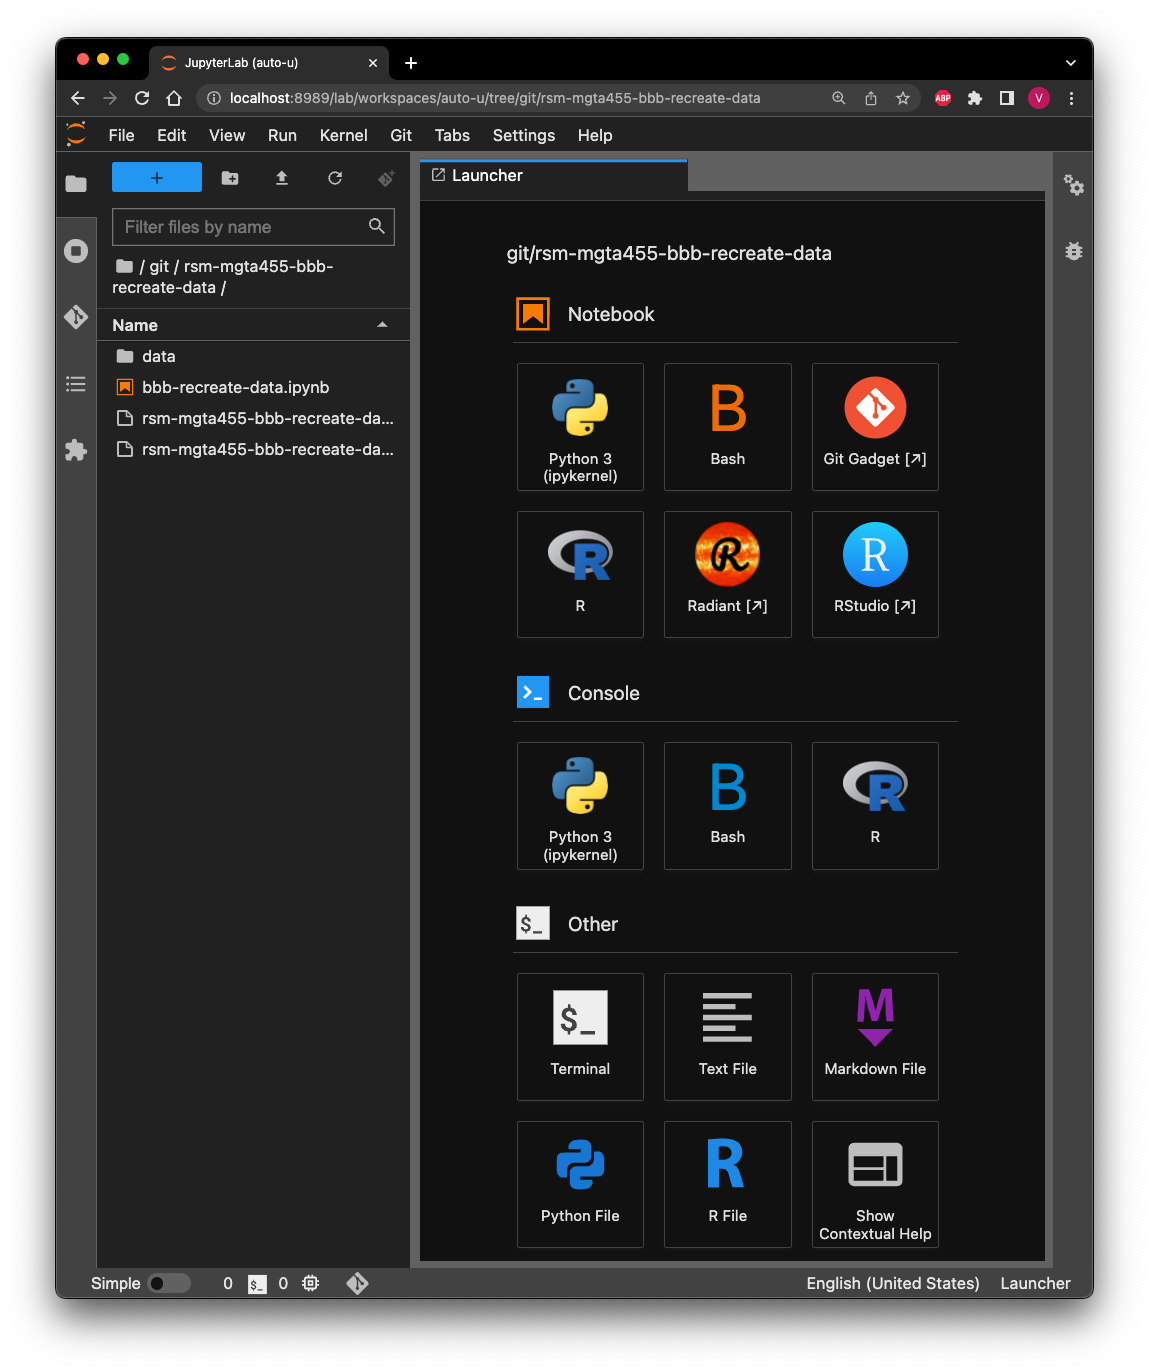
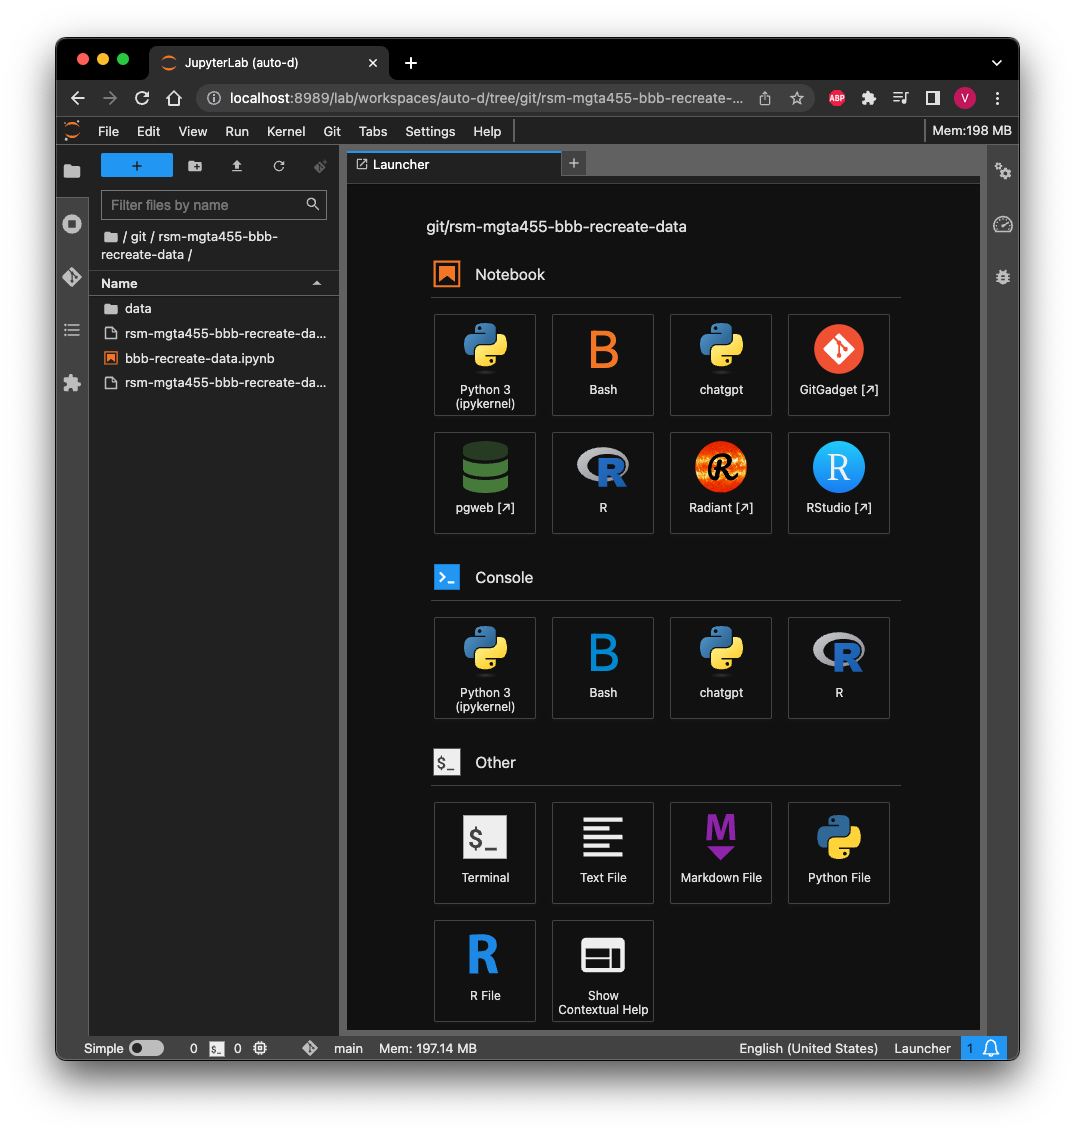
ICT 2023

Changed region(s): [[0.0307, 0.0, 0.9516, 0.9877]]

diff --git a/install/rsm-msba-windows.md b/install/rsm-msba-windows.md
@@ -249,36 +249,18 @@ The rsm-msba-intel container comes with <a href="http://www.postgresqltutorial.c
 postgresql://jovyan:postgres@127.0.0.1:8765/rsm-docker
 ```
 
-You can access postgresql from R using the code below:
-
-```r
-## connect to database
-library(DBI)
-library(RPostgres)
-con <- dbConnect(
-  RPostgres::Postgres(),
-  user = "jovyan",
-  host = "127.0.0.1",
-  port = 8765,
-  dbname = "rsm-docker",
-  password = "postgres"
-)
-
-## show list of tables
-dbListTables(con)
-```
-
-For a more extensive example using R see: <a href="https://github.com/radiant-rstats/docker/blob/master/postgres/postgres-connect.md" target="_blank">https://github.com/radiant-rstats/docker/blob/master/postgres/postgres-connect.md</a>
+<img src="figures/postgresql-pgweb.png" width="500px">
 
 To access postgresql from Jupyter Lab use the code below:
 
-```py
+```python
 ## connect to database
-from sqlalchemy import create_engine
+from sqlalchemy import create_engine, inspect
 engine = create_engine('postgresql://jovyan:postgres@127.0.0.1:8765/rsm-docker')
 
 ## show list of tables
-engine.table_names()
+inspector = inspect(engine)
+inspector.get_table_names()
 ```
 
 For a more extensive example using Python see: <a href="https://github.com/radiant-rstats/docker/blob/master/postgres/postgres-connect.ipynb" target="_blank">https://github.com/radiant-rstats/docker/blob/master/postgres/postgres-connect.ipynb</a>

diff --git a/install/rsm-msba-macos-m1.md b/install/rsm-msba-macos-m1.md
@@ -65,7 +65,7 @@ You will know that the installation was successful if you can start Jupyter Lab.
 
 **Jupyter**:
 
-<img src="figures/rsm-msba-arm.png" width="500px">
+<img src="figures/rsm-jupyter.png" width="500px">
 
 To finalize the setup, open a terminal in Jupyter lab, press `q` and `Enter` if prompted, and then run the code below in the same terminal:
 
@@ -375,7 +375,7 @@ For more on minicoda visit the page below:
 Once you have completed the install, open a new terminal if you want to install python packages. For example:
 
 ```
-conda install -c conda-forge pandas ipykernel black
+conda install -c conda-forge pandas polars duckdb ipykernel black
 ```
 
 If you want to make your terminal look nicer and add syntax highlighting, auto-completion, etc. follow the install instructions linked below:

diff --git a/install/rsm-msba-chromeos.md b/install/rsm-msba-chromeos.md
@@ -373,7 +373,7 @@ For more on minicoda visit the page below:
 Once you have completed the install, open a new terminal if you want to install python packages. For example:
 
 ```
-conda install -c conda-forge pandas ipykernel black
+conda install -c conda-forge pandas polars duckdb ipykernel black
 ```
 
 If you want to make your terminal look nicer and add syntax highlighting, auto-completion, etc. consider following the install instructions linked below:
